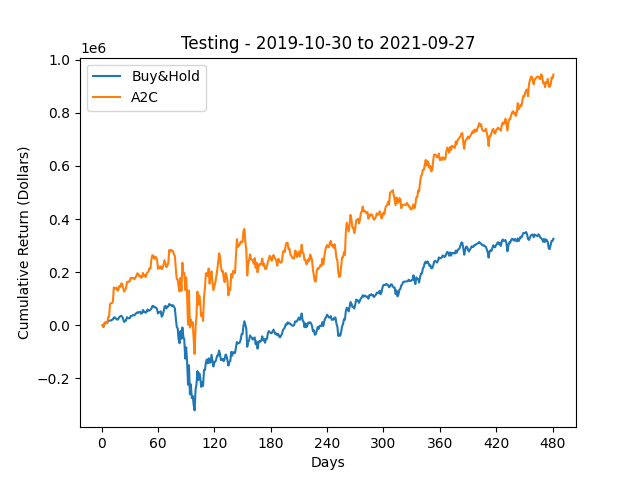
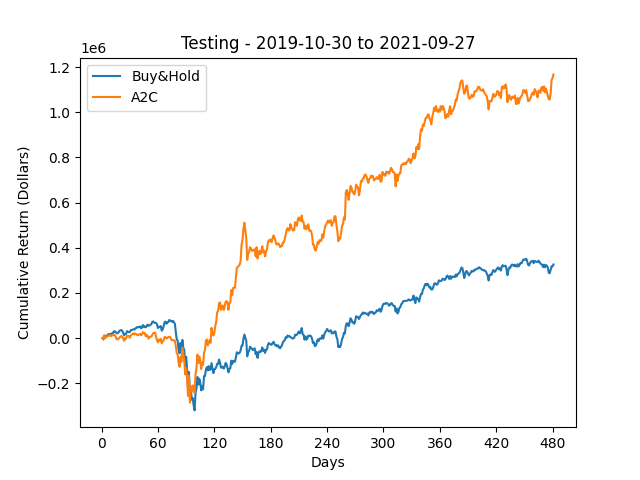
modify algorithms

diff --git a/env/environment.py b/env/environment.py
@@ -19,7 +19,7 @@ class PortfolioEnv:
             stock['ATR'] = TA.ATR(stock)
         self.n_stocks = len(self.historical_data)
         self.prices = np.zeros(self.n_stocks)
-        self.shares = np.zeros(self.n_stocks).astype(np.int)
+        self.shares = np.zeros(self.n_stocks).astype(int)
         self.balance = 0
         self.current_row = 0
         self.end_row = 0
@@ -53,7 +53,7 @@ class PortfolioEnv:
         else:
             self.end_row = self.historical_data[0].index.get_loc(end_date)
         self.prices = self.get_prices()
-        self.shares = np.zeros(self.n_stocks).astype(np.int)
+        self.shares = np.zeros(self.n_stocks).astype(int)
         self.balance = initial_balance
 
         return self.get_state()
@@ -150,7 +150,7 @@ class PortfolioEnv:
             new_shares = np.floor(current_wealth * action[1:] / self.prices)
             actions = new_shares - self.shares
             cost = self.prices.dot(actions)
-            self.shares = self.shares + actions.astype(np.int)
+            self.shares = self.shares + actions.astype(int)
             self.balance -= cost
             self.current_row += 1
             new_prices = self.get_prices()
@@ -163,7 +163,7 @@ class PortfolioEnv:
             if cost > self.balance:
                 actions = np.floor(actions * self.balance / cost)
                 cost = self.prices.dot(actions)
-            self.shares = self.shares + actions.astype(np.int)
+            self.shares = self.shares + actions.astype(int)
             self.balance -= cost
             self.current_row += 1
             new_prices = self.get_prices()

diff --git a/main.py b/main.py
@@ -5,7 +5,10 @@ from algorithms.ppo.ppo import PPO
 import plot
 import torch.multiprocessing as mp
 import os
+import torch
 warnings.filterwarnings('ignore')
+device = torch.device('cuda:0' if torch.cuda.is_available() else 'cpu')
+print('using device: %s' % device)
 
 
 def main():
@@ -13,23 +16,29 @@ def main():
     plot.initialize()
     mp.set_start_method('spawn')
 
-    for i in range(50):
+    for i in range(51):
         print(f"---------- round {i} ----------")
 
         if not os.path.isfile(f'plots/ddpg/{i}2_testing.png'):
             ddpg = DDPG(state_type='indicators', djia_year=2019, repeat=i)
-            ddpg.train()
+            # ddpg.train()
             ddpg.test()
+            del ddpg
+            torch.cuda.empty_cache()
 
         if not os.path.isfile(f'plots/ppo/{i}2_testing.png'):
             ppo = PPO(state_type='indicators', djia_year=2019, repeat=i)
-            ppo.train()
+            # ppo.train()
             ppo.test()
+            del ppo
+            torch.cuda.empty_cache()
 
         if not os.path.isfile(f'plots/a2c/{i}2_testing.png'):
-            a2c = A2C(n_agents=8, state_type='indicators', djia_year=2019, repeat=i)
-            a2c.train()
+            a2c = A2C(n_agents=4, state_type='indicators', djia_year=2019, repeat=i)
+            # a2c.train()
             a2c.test()
+            del a2c
+            torch.cuda.empty_cache()
 
 
 if __name__ == '__main__':

diff --git a/algorithms/ppo/agent.py b/algorithms/ppo/agent.py
@@ -26,12 +26,12 @@ class PPOMemory:
         batches = [indices[i:i + self.batch_size] for i in batch_start]
 
         return np.array(self.states), \
-               np.array(self.actions), \
-               np.array(self.probs), \
-               np.array(self.vals), \
-               np.array(self.rewards), \
-               np.array(self.dones), \
-               batches
+            np.array(self.actions), \
+            np.array(self.probs), \
+            np.array(self.vals), \
+            np.array(self.rewards), \
+            np.array(self.dones), \
+            batches
 
     def store_memory(self, state, action, probs, vals, reward, done):
         self.states.append(state)
@@ -108,7 +108,7 @@ class ActorNetwork(nn.Module):
 
 
 class CriticNetwork(nn.Module):
-    def __init__(self, input_dims, alpha,fc1_dims=400, fc2_dims=300,
+    def __init__(self, input_dims, alpha, fc1_dims=400, fc2_dims=300,
                  chkpt_dir='checkpoints/ppo'):
         super(CriticNetwork, self).__init__()
 
@@ -209,7 +209,7 @@ class Agent:
     def learn(self):
         for _ in range(self.n_epochs):
             state_arr, action_arr, old_prob_arr, vals_arr, \
-            reward_arr, dones_arr, batches = \
+                reward_arr, dones_arr, batches = \
                 self.memory.generate_batches()
 
             values = vals_arr

diff --git a/README.md b/README.md
@@ -31,7 +31,7 @@ This project uses Actor-Critic Deep Reinforcement Learning algorithms including 
 4. For cuda user (cuda 11.3)
 
    ```
-   conda install pytorch==1.9.1 torchvision==0.10.1 torchaudio==0.9.1 cudatoolkit=11.3 -c pytorch -c conda-forge
+   pip install torch==1.9.1+cu111 torchvision==0.10.1+cu111 torchaudio==0.9.1 -f https://download.pytorch.org/whl/torch_stable.html
    ```
    
 5. Train the models
@@ -46,19 +46,65 @@ This project uses Actor-Critic Deep Reinforcement Learning algorithms including 
 
 ## **Result**
 
-**A2C (Actor-Critic)** reaches profits _ at _ round, against _ of buy&hold.
+**A2C (Actor-Critic)** reaches the most profits at the 13 round.
+
+| index               | stat     |
+| ------------------- | -------- |
+| Annual return       | 0.501005 |
+| Cumulative returns  | 1.167534 |
+| Annual volatility   | 0.313186 |
+| Sharpe ratio        | 1.453883 |
+| Calmar ratio        | 1.646764 |
+| Stability           | 0.903189 |
+| Max drawdown        | -0.30424 |
+| Omega ratio         | 1.358105 |
+| Sortino ratio       | 2.265669 |
+| Skew                | 0.211108 |
+| Kurtosis            | 13.59174 |
+| Tail ratio          | 1.217694 |
+| Daily value at risk | -0.03765 |
 
 <img src="./assets/a2c_result.png" style="zoom:80%;" />
 
-**DDPG (Deep Deterministic Policy Gradient)** reaches profits _ at _ round, against _ of buy&hold.
+**DDPG (Deep Deterministic Policy Gradient)** reaches the most profits at the 14 round.
+
+| index               | stat     |
+| ------------------- | -------- |
+| Annual return       | 0.591703 |
+| Cumulative returns  | 1.423814 |
+| Annual volatility   | 0.37695  |
+| Sharpe ratio        | 1.422367 |
+| Calmar ratio        | 1.88296  |
+| Stability           | 0.864256 |
+| Max drawdown        | -0.31424 |
+| Omega ratio         | 1.299809 |
+| Sortino ratio       | 2.132271 |
+| Skew                | -0.01881 |
+| Kurtosis            | 5.445235 |
+| Tail ratio          | 1.014544 |
+| Daily value at risk | -0.04536 |
 
 <img src="./assets/ddpg_result.png" style="zoom:80%;" />
 
-**PPO (Proximal Policy Optimization)** reaches profits _ at _ round, against _ of buy&hold.
+**PPO (Proximal Policy Optimization)** reaches the most profits at the 33 round.
+
+| index               | stat     |
+| ------------------- | -------- |
+| Annual return       | 0.363893 |
+| Cumulative returns  | 0.806028 |
+| Annual volatility   | 0.274843 |
+| Sharpe ratio        | 1.267362 |
+| Calmar ratio        | 1.195302 |
+| Stability           | 0.90252  |
+| Max drawdown        | -0.30444 |
+| Omega ratio         | 1.30618  |
+| Sortino ratio       | 1.833882 |
+| Skew                | -0.16044 |
+| Kurtosis            | 12.17401 |
+| Tail ratio          | 0.988949 |
+| Daily value at risk | -0.03324 |
 
 <img src="./assets/ppo_result.png" style="zoom:80%;" />
-
-## Conclusion
 
 ## Documentation
 

diff --git a/assets/project_report.md b/assets/project_report.md
@@ -226,4 +226,4 @@ https://arxiv.org/abs/1502.05477
 
 ## License
 
-Actor-Critic-Trader is MIT licensed. See the [LICENSE file](./LICENSE) for details.
+Actor-Critic-Trader is MIT licensed. See the [LICENSE file](../LICENSE) for details.
